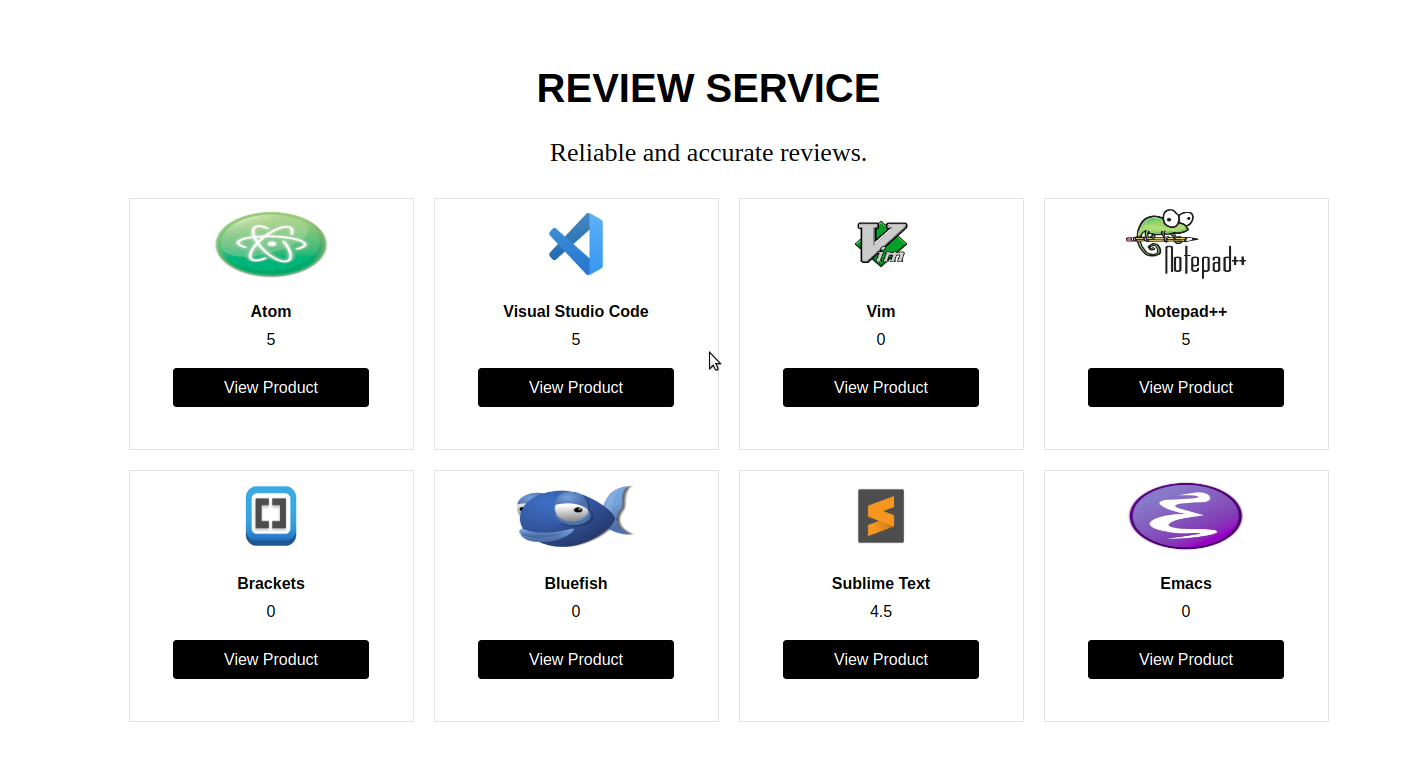
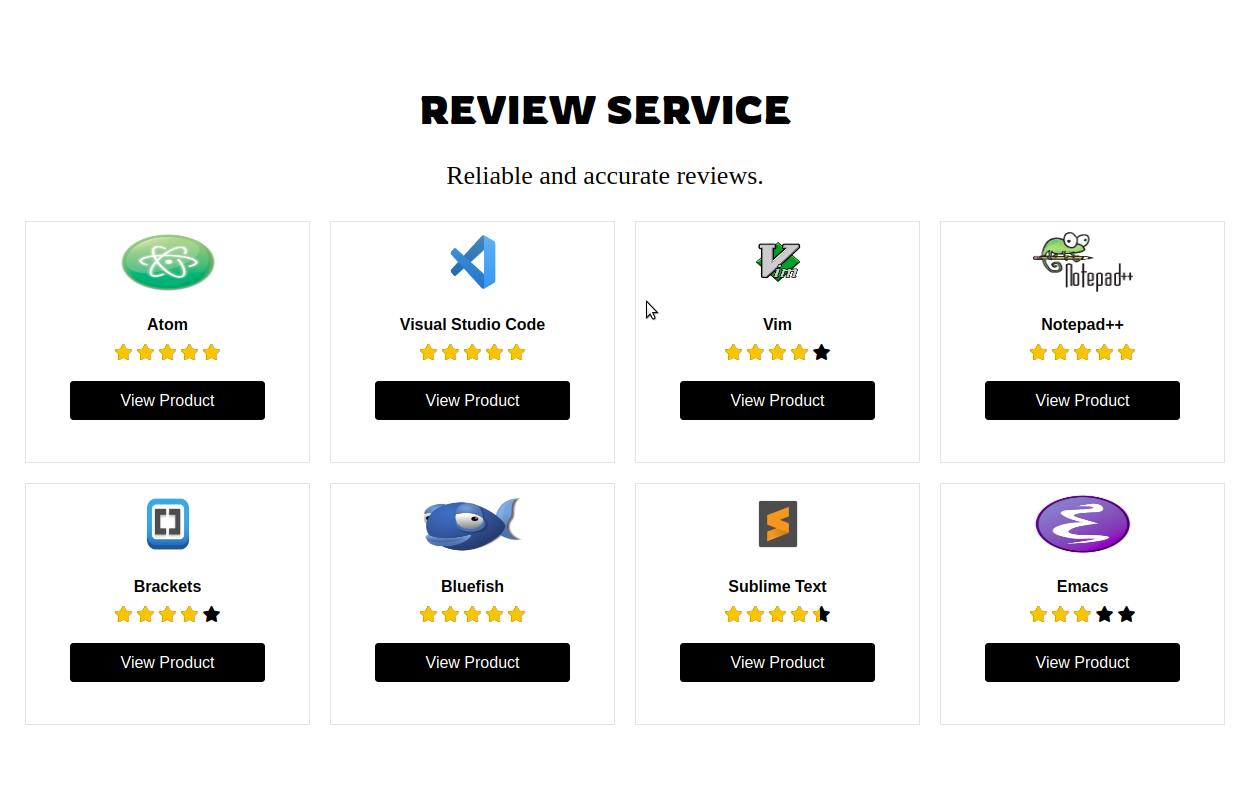
added Rating.js component

diff --git a/app/javascript/components/Product/Product.js b/app/javascript/components/Product/Product.js
@@ -2,6 +2,7 @@ import React, { useState, useEffect, Fragment } from 'react'
 import axios from 'axios'
 import Header from './Header'
 import ReviewForm from './ReviewForm'
+import Review from './Review'
 import styled from 'styled-components'
 
 const Wrapper = styled.div`
@@ -19,7 +20,7 @@ const Column = styled.div`
   }
 `
 const Main = styled.div`
-  padding-left: 30%;
+  padding-left: 100px;
 `
 
 const Product = props => {
@@ -68,6 +69,14 @@ const Product = props => {
     setReview({ ...review, score })
   }
 
+  let reviews
+  if (loaded && product.included) {
+    reviews = product.included.map((item, index) => {
+      return <Review key={index} attributes={item.attributes} />
+    })
+  }
+
+
   console.log("product = ", product)
   return (
     <Wrapper>
@@ -78,7 +87,7 @@ const Product = props => {
           <Column>
             <Main>
               <Header attributes={product.data.attributes} reviews={product.included} />
-              <div className="reviews"></div>
+              {reviews}
             </Main>
           </Column>
 

diff --git a/app/javascript/components/Product/Review.js b/app/javascript/components/Product/Review.js
@@ -1,0 +1,41 @@
+import React from 'react'
+import Rating from '../Rating/Rating'
+import styled from 'styled-components'
+
+const Card = styled.div`
+  border: 1px solid rgba(0, 0, 0, 0.1);
+  border-radius: 4px;
+  padding: 20px;
+  margin: 0 40px 20px 0;
+`
+const RatingContainer = styled.div`
+  display: flex;
+  flex-direction: row;
+`
+const RatingScore = styled.div`
+
+`
+const Title = styled.div`
+  padding: 20px 0 0 0;
+  font-size: 18px;
+`
+const Description = styled.div`
+  padding: 0 0 20px 0;
+  font-size: 14px;
+`
+
+const Review = props => {
+  const { title, description, score } = props.attributes
+
+  return (
+    <Card>
+      <RatingContainer>
+        <Rating score={score} />
+      </RatingContainer>
+      <Title>{title}</Title>
+      <Description>{description}</Description>
+    </Card>
+  )
+}
+
+export default Review

diff --git a/app/javascript/components/Products/ProductCard.js b/app/javascript/components/Products/ProductCard.js
@@ -1,5 +1,6 @@
 import React from 'react'
 import { BrowserRouter as Router, Link } from 'react-router-dom'
+import Rating from '../Rating/Rating'
 import styled from 'styled-components'
 
 const Card = styled.div`
@@ -8,13 +9,13 @@ const Card = styled.div`
   font-family: "Lucida Sans Unicode", "Lucida Grande", sans-serif;
 `
 const ProductLogo = styled.div`
-  width: 120px;
+  width: 100px;
   margin: auto;
   padding-top: 10px;
 
   img {
-    height: 70px;
-    width: 120px;
+    height: 60px;
+    width: 100px;
     border-radius: 3px;
   }
 `
@@ -50,7 +51,7 @@ const ProductCard = props => {
 
       <ProductName>{name}</ProductName>
 
-      <div className="product-score">{avg_score}</div>
+      <Rating score={avg_score} />
 
       <LinkWrapper>
         <Link to={`/products/${slug}`}>View Product</Link>

diff --git a/app/javascript/components/Product/Header.js b/app/javascript/components/Product/Header.js
@@ -2,13 +2,13 @@ import React from 'react'
 import styled from 'styled-components'
 
 const Wrapper = styled.div`
-  padding: 150px 100px 50px 0;
-  font-size: 18px;
+  padding: 120px 100px 50px 0;
+  font-size: 24px;
 
   img {
-    margin: auto;
-    height: 80px;
-    width: 140px;
+    height: 70px;
+    width: 120px;
+    margin-right: 20px;
   }
 `
 const TotalReviews = styled.div`
@@ -27,8 +27,10 @@ const Header = props => {
 
   return (
     <Wrapper>
-      <img src={image_url} alt={name} />
-      <h1>{name}</h1>
+      <h1>
+        <img src={image_url} alt={name} />
+        {name}
+      </h1>
       <div>
         <TotalReviews>{total} User Reviews</TotalReviews>
         <div className="starRating"></div>

diff --git a/app/javascript/components/Products/Products.js b/app/javascript/components/Products/Products.js
@@ -2,6 +2,7 @@ import React, { useState, useEffect } from 'react'
 import axios from 'axios'
 import ProductCard from './ProductCard'
 import styled from 'styled-components'
+import './Products.css'
 
 const Home = styled.div`
   text-align: center;
@@ -12,7 +13,7 @@ const Header = styled.div`
   padding: 100px 100px 10px 100px;
 
   h1 {
-    font-family: "Lucida Sans Unicode", sans-serif;
+    font-family: 'Rowdies', cursive;
     font-size: 40px;
   }
 `

diff --git a/app/javascript/components/Rating/Rating.css b/app/javascript/components/Rating/Rating.css
@@ -1,0 +1,21 @@
+@import url("https://use.fontawesome.com/releases/v5.13.0/css/all.css");
+
+.star-wrapper {
+  position: relative;
+  display: inline-block;
+}
+
+.stars {
+  color: #fcc201;
+  position: absolute;
+  top: 0;
+  left: 0;
+  overflow: hidden;
+  white-space: nowrap;
+}
+
+.star-wrapper::before, .stars::before {
+  content: "\f005 \0020 \f005 \0020 \f005 \0020 \f005 \0020 \f005";
+  font-family: "Font Awesome 5 Free";
+  font-weight: bold;
+}

diff --git a/app/javascript/components/Rating/Rating.js b/app/javascript/components/Rating/Rating.js
@@ -1,0 +1,13 @@
+import React from 'react'
+import './Rating.css'
+
+const Rating = props => {
+  const score = (props.score/5) * 100
+  return (
+    <span className="star-wrapper">
+      <span className="stars" style={{width: score + "%"}}></span>
+    </span>
+  )
+}
+
+export default Rating

diff --git a/app/javascript/components/Products/Products.css b/app/javascript/components/Products/Products.css
@@ -1,0 +1,1 @@
+@import url('https://fonts.googleapis.com/css2?family=Rowdies:wght@700&display=swap');
